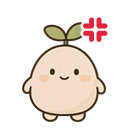
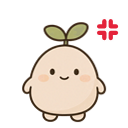
fix: keep anger glyphs clear of character silhouettes (P028)

Changed region(s): [[0.625, 0.125, 0.9375, 0.3438]]

diff --git a/scripts/CharacterBuilder.cs b/scripts/CharacterBuilder.cs
@@ -940,16 +940,15 @@ public static class CharacterBuilder
 
     /// <summary>
     /// The manga anger mark (💢) over the character's head: four bent spokes around a center.
-    /// Drawn twice — a thick white under-stroke first — so it stays readable on top of the
-    /// character's own linework.
+    /// Drawn twice with a white halo, in clear space beside the head. Placement uses the
+    /// largest pulse envelope so the mark never jumps between animation frames.
     /// </summary>
     public static void DrawAngerMark(Bitmap bmp, int anchorY, int spriteHeight, double pulse)
     {
-        int w = bmp.Width;
-        float bodyTop = anchorY - spriteHeight;
-        float size = (float)(spriteHeight * (0.26 + 0.05 * pulse));
-        float cx = w * 0.74f;
-        float cy = bodyTop + spriteHeight * 0.07f;
+        float cx, cy, maximumSize;
+        if (!TryPlaceAngerMark(bmp, anchorY, spriteHeight, out cx, out cy, out maximumSize)) return;
+        pulse = double.IsNaN(pulse) ? 0 : Math.Max(0, Math.Min(1, pulse));
+        float size = (float)(maximumSize * (0.26 + 0.05 * pulse) / 0.31);
 
         using (var g = Graphics.FromImage(bmp))
         {
@@ -987,6 +986,60 @@ public static class CharacterBuilder
                 }
             }
         }
+    }
+
+    private static bool TryPlaceAngerMark(Bitmap bmp, int anchorY, int spriteHeight,
+        out float cx, out float cy, out float maximumSize)
+    {
+        cx = cy = maximumSize = 0;
+        if (spriteHeight <= 0) return false;
+        int w = bmp.Width, h = bmp.Height, stride = w + 1;
+        var pixels = GetPixels(bmp);
+        var occupied = new int[(w + 1) * (h + 1)];
+        for (int y = 0; y < h; y++)
+        {
+            int row = 0;
+            for (int x = 0; x < w; x++)
+            {
+                if (pixels[(y * w + x) * 4 + 3] > 0) row++;
+                occupied[(y + 1) * stride + x + 1] = occupied[y * stride + x + 1] + row;
+            }
+        }
+
+        double bodyTop = anchorY - (double)spriteHeight;
+        double preferredX = w * 0.74, preferredY = bodyTop + spriteHeight * 0.07;
+        // Keep the search near the head, away from interior facial gaps. Never enlarge
+        // small sprites, and shrink only after every full-size location has been tried.
+        for (int size = (int)Math.Floor(Math.Min(spriteHeight * 0.31, Math.Min(w, h))); size >= 12; size--)
+        {
+            double stroke = Math.Max(2.2, size * 0.18);
+            // The diagonal path, rounded white halo, AA and a separate one-pixel gap.
+            int radius = (int)Math.Ceiling(size * 0.5 / Math.Sqrt(2) + stroke * 1.05 + 2) + 1;
+            int firstX = Math.Max(radius + 1, (int)Math.Ceiling(w * 0.60));
+            int lastX = w - radius - 2;
+            int firstY = radius + 1;
+            int lastY = (int)Math.Min(h - radius - 2, Math.Floor(bodyTop + spriteHeight * 0.14));
+            double bestDistance = double.MaxValue;
+            int bestX = -1, bestY = -1;
+            for (int y = firstY; y <= lastY; y++)
+                for (int x = firstX; x <= lastX; x++)
+                {
+                    int left = x - radius, top = y - radius;
+                    int right = x + radius + 1, bottom = y + radius + 1;
+                    int count = occupied[bottom * stride + right] - occupied[top * stride + right]
+                        - occupied[bottom * stride + left] + occupied[top * stride + left];
+                    if (count != 0) continue;
+                    double dx = x - preferredX, dy = y - preferredY;
+                    double distance = dx * dx + dy * dy;
+                    if (distance >= bestDistance) continue;
+                    bestDistance = distance; bestX = x; bestY = y;
+                }
+            if (bestX < 0) continue;
+            cx = bestX; cy = bestY; maximumSize = size;
+            return true;
+        }
+        // A full or tiny canvas is safer without an ornament than with damaged artwork.
+        return false;
     }
 
     /// <summary>Floating "Zzz" above a sleeping character; <paramref name="drift"/> animates it rising.</summary>

diff --git a/docs/ROADMAP_2_0.md b/docs/ROADMAP_2_0.md
@@ -44,6 +44,8 @@ P026 adds motion-preview **Pause / Resume** and **Next frame** for character aut
 
 P027 exposes **Cry / Angry** in the same motion scene, using the real `PetBrain.StartEmote` path. Authors can pause and step through expression frames directly. Queued reactions retain drag offsets and the physical trajectory, identify the pending reaction in KO/EN/zh-CN, then play the newest request after landing with its own timer. Tests compare a reaction-free control trajectory and actual authored PNG/pixel changes for all nine installed curated characters; the complete UI suite passes. An actual WPF emotion overview supports visual review. This patch changes preview controls, not authored artwork, and remains 1.3.0 development work.
 
+P028 repairs an artwork defect exposed by that overview: the fixed anger overlay overwrote 28–296 existing character pixels at its base pulse across six marked characters. The generator now searches clear space near the head, uses the same maximum-pulse envelope for every frame and scales down only when necessary. Tests preserve every nontransparent source pixel, require a clear gap and no canvas clipping, verify stable centers and shipped marks, and exercise a synthetic sprout, invalid pulse values and full/tiny canvases. Only twelve anger PNGs change; an inventory comparison preserves all other 1,917 asset files. Native WPF captures and the complete nine-character UI suite pass. The other three fan-art characters retain their existing tint-only reactions. P028 remains unreleased 1.3.0 development work.
+
 The [1.2.0 release audit](RELEASE_AUDIT_1_2.md) records the original post-publication API rate-limit failure and the successful read-only comparison of all four public files.
 
 | Verified patch threshold | Planned release | Main review area |

diff --git a/CHANGELOG.md b/CHANGELOG.md
@@ -9,6 +9,7 @@
 - P025: export a selected gallery character as a shareable ZIP. Validate a private snapshot and include only the manifest and declared PNGs, preserve nested paths/profile, cancel unfinished exports and keep existing/concurrently-created files intact. Progress follows the exported character while browsing other cards. Add KO/EN/zh-CN controls and documentation; round-trip exported ZIPs through the normal importer without changing the active pet.
 - P026: pause/resume the motion preview and inspect one frame at the selected 30/60/120 FPS cap. Freeze both simulation and raster pose-dissolve clocks, retain paused poses through language changes and hide/minimize, prepare jump/drop trajectories and rebase time on resume. Reset stays paused; the real desktop pet remains independent. Keep the same window size and localize controls in KO/EN/zh-CN.
 - P027: preview Cry/Angry from dedicated motion-scene controls and inspect their real frames while paused. Preserve drag offsets and throw trajectories; show localized queued-reaction feedback and play the latest request after landing. Reset clears pending feedback and inactive controls cannot affect the scene. Verify actual expression pixels for all nine curated characters.
+- P028: place the procedural anger glyph in clear space around the head instead of covering leaves, ears or hats. Use a pulse-independent placement envelope, shrink only as needed and omit the ornament when no safe space exists. Regenerate only twelve anger frames for Companion, Nimbus, Ember, Pompompurin, Cinnamoroll and Kuromi; preserve masters, gait, manifests and other character art.
 
 ## 1.2.0 — evolution patches P011–P020
 
